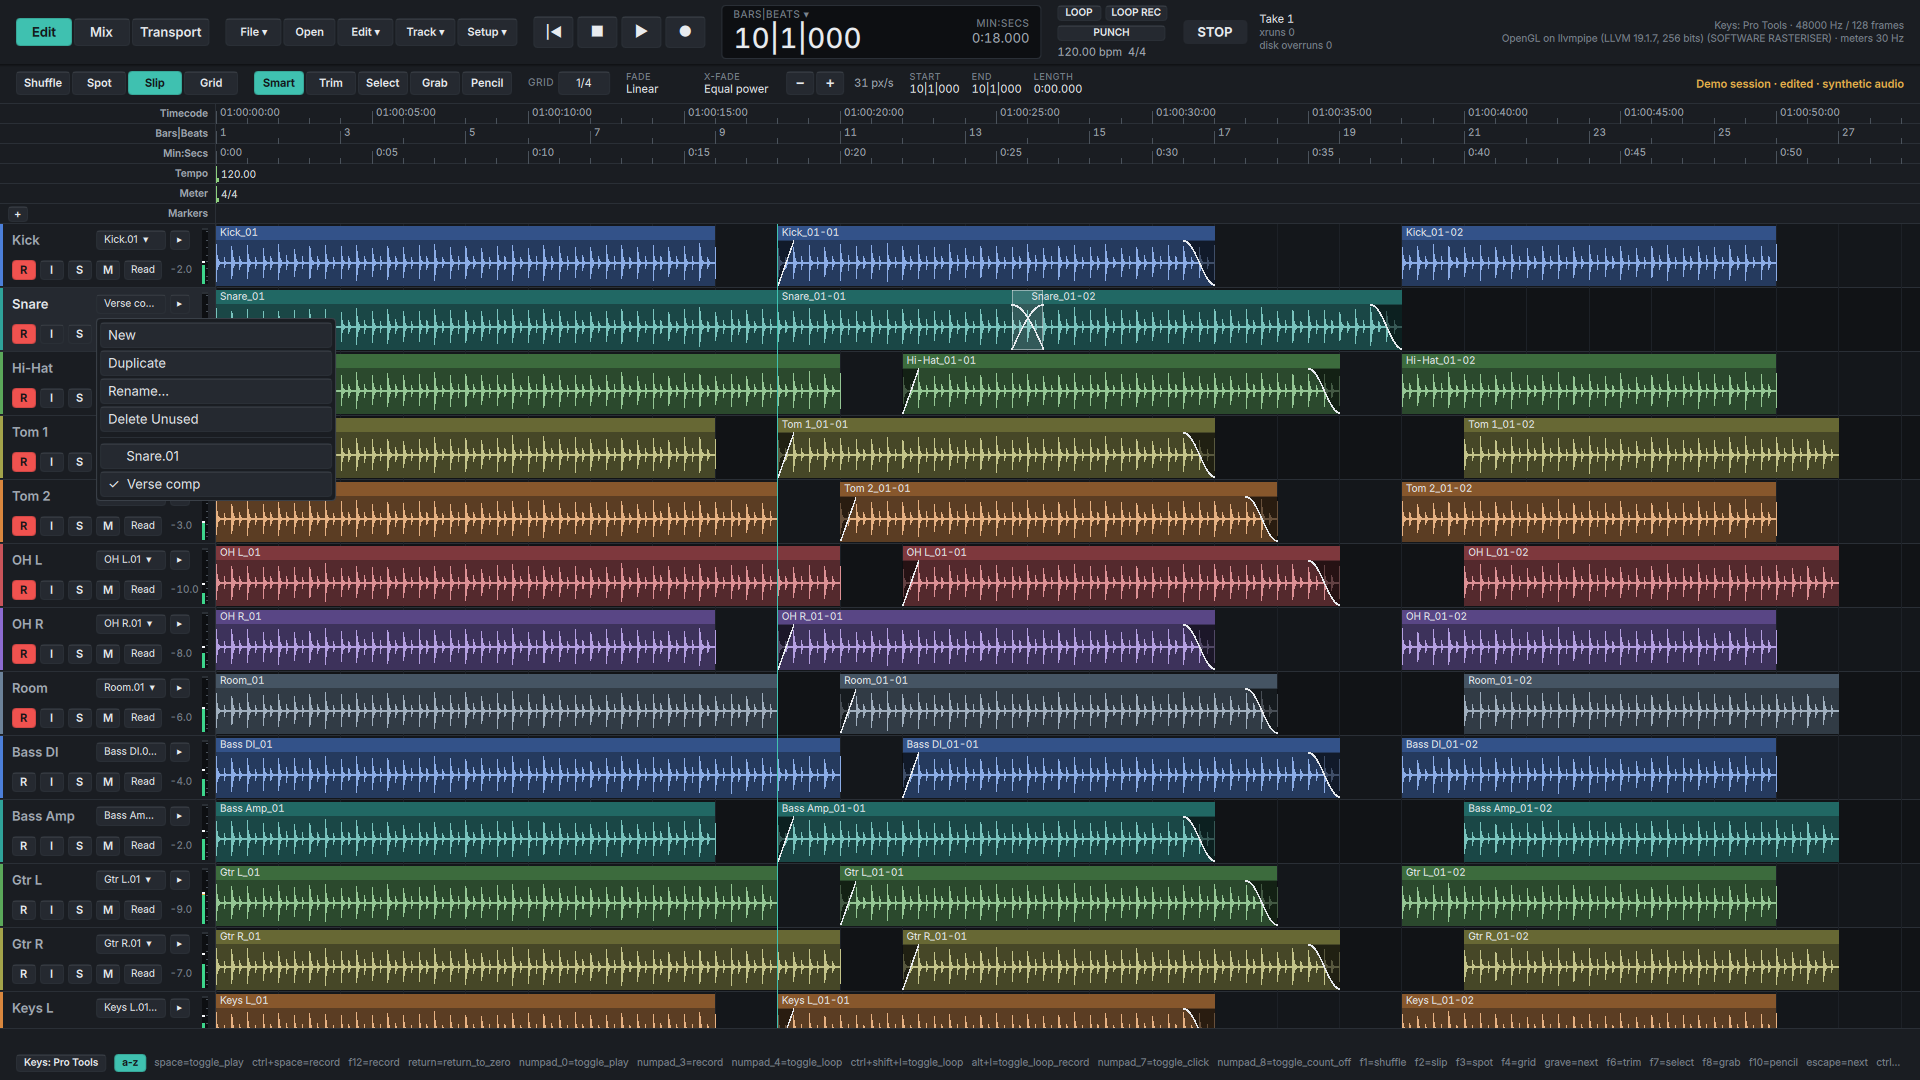
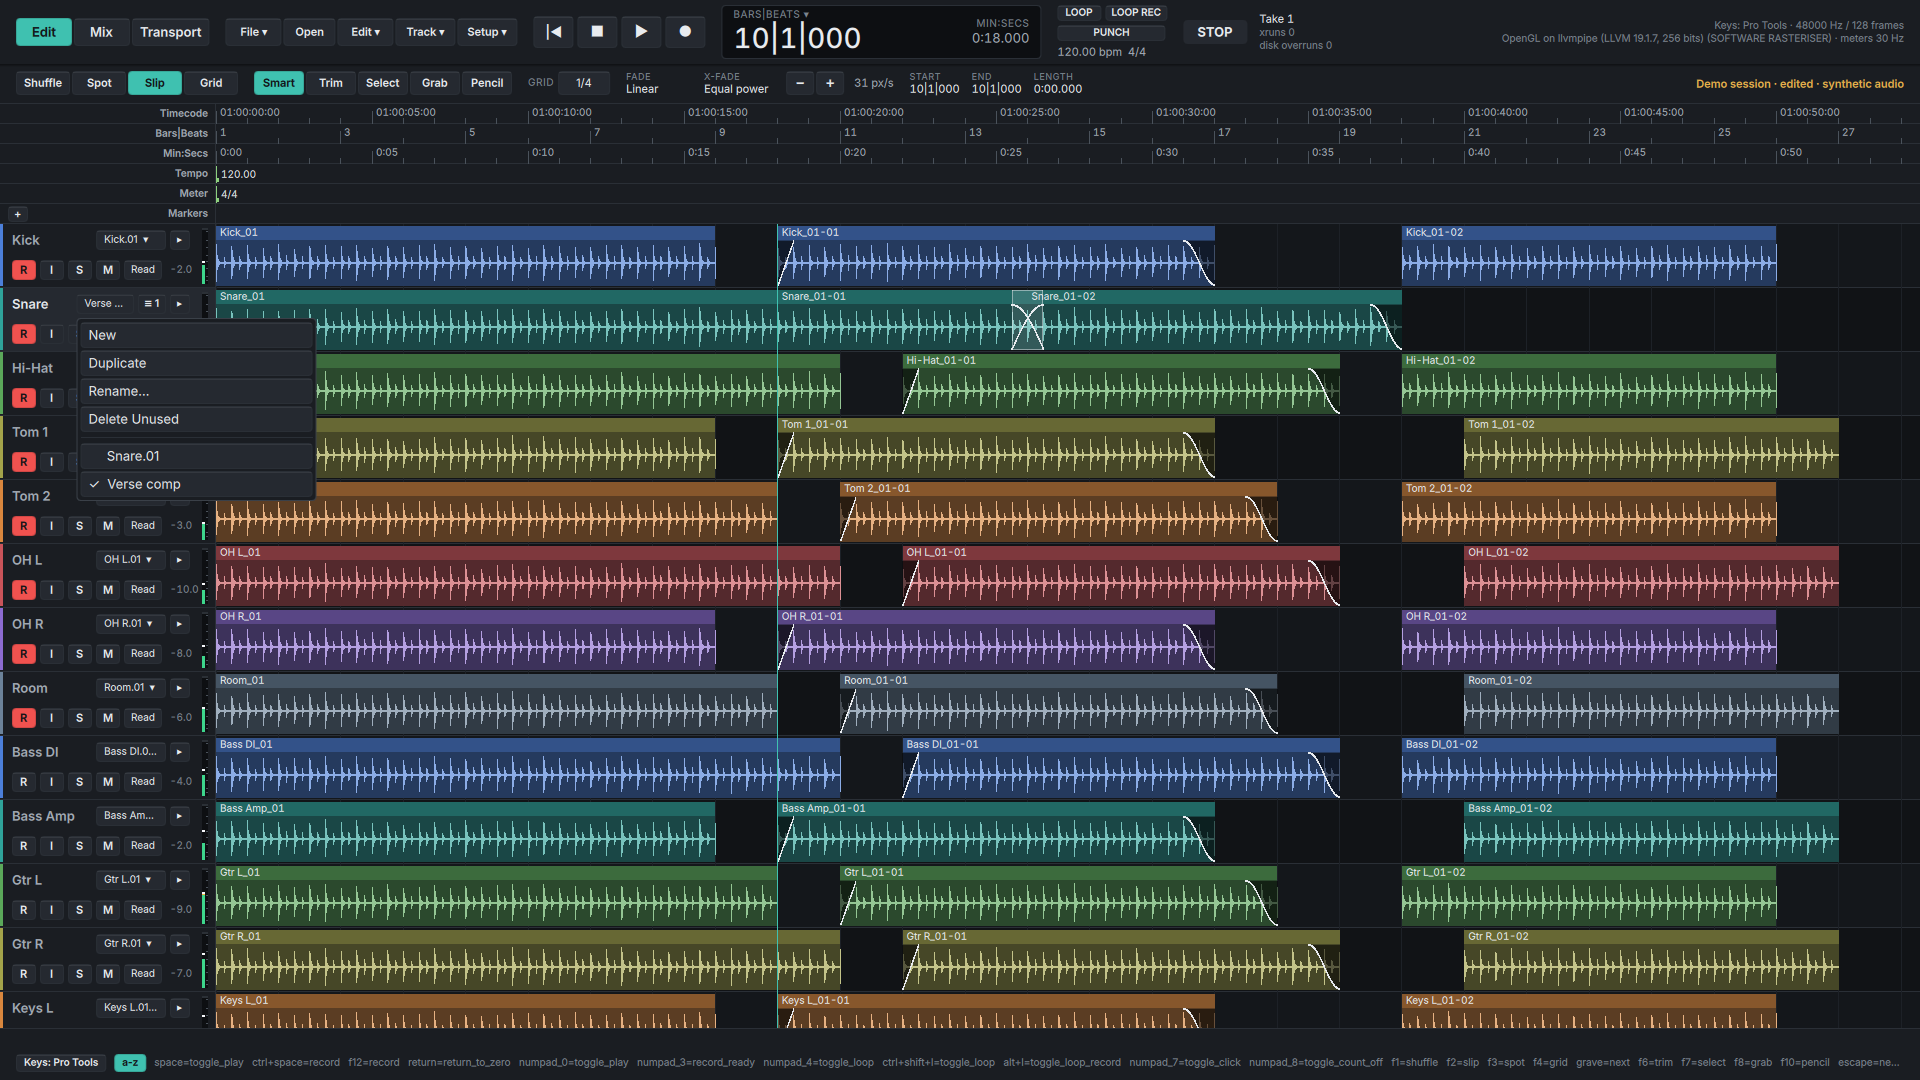
Comping: header takes button, origin labels, held-notice wording, wire domains test, screenshots (ADR-0049)

Changed region(s): [[0.375, 0.9778, 1.0, 1.0], [0.0312, 0.275, 0.0938, 0.4583], [0.1562, 0.275, 0.1875, 0.4583]]

diff --git a/ui/qt/qml/EditWindow.qml b/ui/qt/qml/EditWindow.qml
@@ -349,7 +349,8 @@ Item {
                     Text {
                         id: headerName
                         x: Theme.space3; y: Theme.space2
-                        width: (parent.width - 2 * Theme.space3 - 14) * 0.45
+                        // Narrower where the takes button needs the room.
+                        width: (parent.width - 2 * Theme.space3 - 14) * ((header.row.takes || 0) > 0 ? 0.34 : 0.45)
                         elide: Text.ElideRight
                         text: header.modelData
                         color: header.selected ? Theme.text : Theme.textSecondary
@@ -377,7 +378,7 @@ Item {
                         x: headerName.x + headerName.width + Theme.space1
                         y: Theme.space2 - 2
                         width: parent.width - x - Theme.space3 - 14 - 24 -
-                               ((header.row.takes || 0) > 0 ? 36 : 0)
+                               ((header.row.takes || 0) > 0 ? 32 : 0)
                         implicitHeight: 20
                         bold: false
                         fontPx: Theme.textCaption
@@ -398,7 +399,7 @@ Item {
                         visible: (header.row.takes || 0) > 0
                         x: playlistSelector.x + playlistSelector.width + Theme.space1
                         y: Theme.space2 - 2
-                        implicitWidth: 32; implicitHeight: 20
+                        implicitWidth: 28; implicitHeight: 20
                         fontPx: Theme.textCaption
                         active: header.row.lanesShown === true
                         text: "\u2261 " + (header.row.takes || 0)

diff --git a/ui/qt/tests/test_comping.cpp b/ui/qt/tests/test_comping.cpp
@@ -169,7 +169,7 @@ int test_swipe() {
     CHECK(ls.valid() && ls.track == kVox && ls.start == kBar && ls.end == 3 * kBar);
     CHECK(!c.selection().has_range());
     // A Clear now reaches neither the lane nor the comp through it.
-    CHECK(!c.clear(why) || f.doc.snapshot().revision == rev);
+    CHECK(!c.clear(why) && why == "nothing is selected" && f.doc.snapshot().revision == rev);
     CHECK(c.lane_selection().valid());
 
     // Copy to Main Playlist: one step, the comp plays take 2 over the range
@@ -327,7 +327,7 @@ int test_scene() {
     build();
     CHECK(c.drag().kind == Drag::Kind::Swipe);
     CHECK(colour_at(2 * kBar, y0 - 5) == kSwipe || colour_at(2 * kBar, f.lane_y(0) + 20) == kSwipe);
-    CHECK(c.release(sx(3 * kBar), y0, why));
+    CHECK(c.release(f.x(3 * kBar), y0, why));
     build();
     CHECK(c.lane_selection().valid());
 
@@ -399,6 +399,7 @@ int test_commands() {
     CHECK(session.undoText() == QStringLiteral("Undo New Comp"));
 
     // Consolidate sends the engine the selection; nothing selected is refused here.
+    session.controller().clear_selection();
     CHECK(local.dispatch("edit.consolidate", CommandContext{}, why) == DispatchResult::Failed);
     CHECK(why.find("select a region") != std::string::npos && sent.empty());
     session.controller().select_range(kVox, kBar, 3 * kBar);

diff --git a/ui/qt/src/timeline_scene.cpp b/ui/qt/src/timeline_scene.cpp
@@ -185,14 +185,16 @@ void draw_region(const Region& r, Frames pos, Frames len, Frames offset, const R
     if (origin != nullptr && x0 >= 0) add(out.rects, x0, y, 3, h, theme::kAccent);
     if (!ghost && x1 - x0 > 24) {
         // A level of its own is part of the name, as Pro Tools' clip name shows it.
-        std::string label = r.name;
+        // A piece of the comp says which take lane it was swiped from, and a
+        // piece still named for its take says that once.
+        const bool named_for_take = origin != nullptr && r.name == *origin;
+        std::string label = named_for_take ? std::string() : r.name;
         if (r.gain_db != 0.0f) {
             char gain[24];
             std::snprintf(gain, sizeof gain, "  %+.1f dB", static_cast<double>(r.gain_db));
             label += gain;
         }
-        // Which take lane this piece of the comp was swiped from.
-        if (origin != nullptr) label += "  ← " + *origin;
+        if (origin != nullptr) label += std::string(label.empty() ? "" : "  ") + "← " + *origin;
         out.labels.push_back({static_cast<float>(cx0 + 4), static_cast<float>(y),
                               static_cast<float>(cx1 - cx0 - 8), label, theme::kText,
                               theme::kTextCaption});

diff --git a/ui/qt/src/edit_comping.cpp b/ui/qt/src/edit_comping.cpp
@@ -186,8 +186,8 @@ bool EditController::comp_copy_to_main(std::string& why) {
     if (c.seam_crossfade > 0 && comp.seams_faded < comp.seams) {
         char text[200];
         std::snprintf(text, sizeof text,
-                      "%zu of %zu joins kept a hard cut: the takes have no audio to spare beyond "
-                      "the swipe for a crossfade there",
+                      "%zu of %zu joins kept a hard cut: a crossfade there needs audio to spare in "
+                      "both takes and no fade already on the edge",
                       comp.seams - comp.seams_faded, comp.seams);
         why = text;
     } else {

diff --git a/ui/qt/src/scenes/edit_comping_consolidate.cpp b/ui/qt/src/scenes/edit_comping_consolidate.cpp
@@ -23,6 +23,8 @@ const ShotRegistrar registrar{[] {
             // The range across the comp on the track's own row, then the
             // key's command; the engine's answer arrives as events, shown
             // after the demo engine has finished its own.
+            // The Selector, as an engineer picks a range with it.
+            c.model.invokeWith(QStringLiteral("tool.select"), -1, QString());
             auto& ctl = c.session.controller();
             const auto x = [&](int n) { return ctl.view().x_of(n * bar(c)); };
             const double y = ctl.view().y_of_track(kVox) + 12;

diff --git a/contracts/api/tests/test_wire.cpp b/contracts/api/tests/test_wire.cpp
@@ -519,6 +519,7 @@ void domains() {
                                id == "window.transport" ||
                                id == "window.undo_history" ||
                                id == "window.memory_locations" || id == "window.latency" ||
+                               id == "comp.toggle_lanes" || id == "comp.toggle_quick_swipe" ||
                                id == "app.save_as_template" || id == "app.new_from_template";
         if (interface != (spec.domain == CommandDomain::Interface)) {
             std::fprintf(stderr, "FAIL %s is in the wrong domain\n", spec.id);
